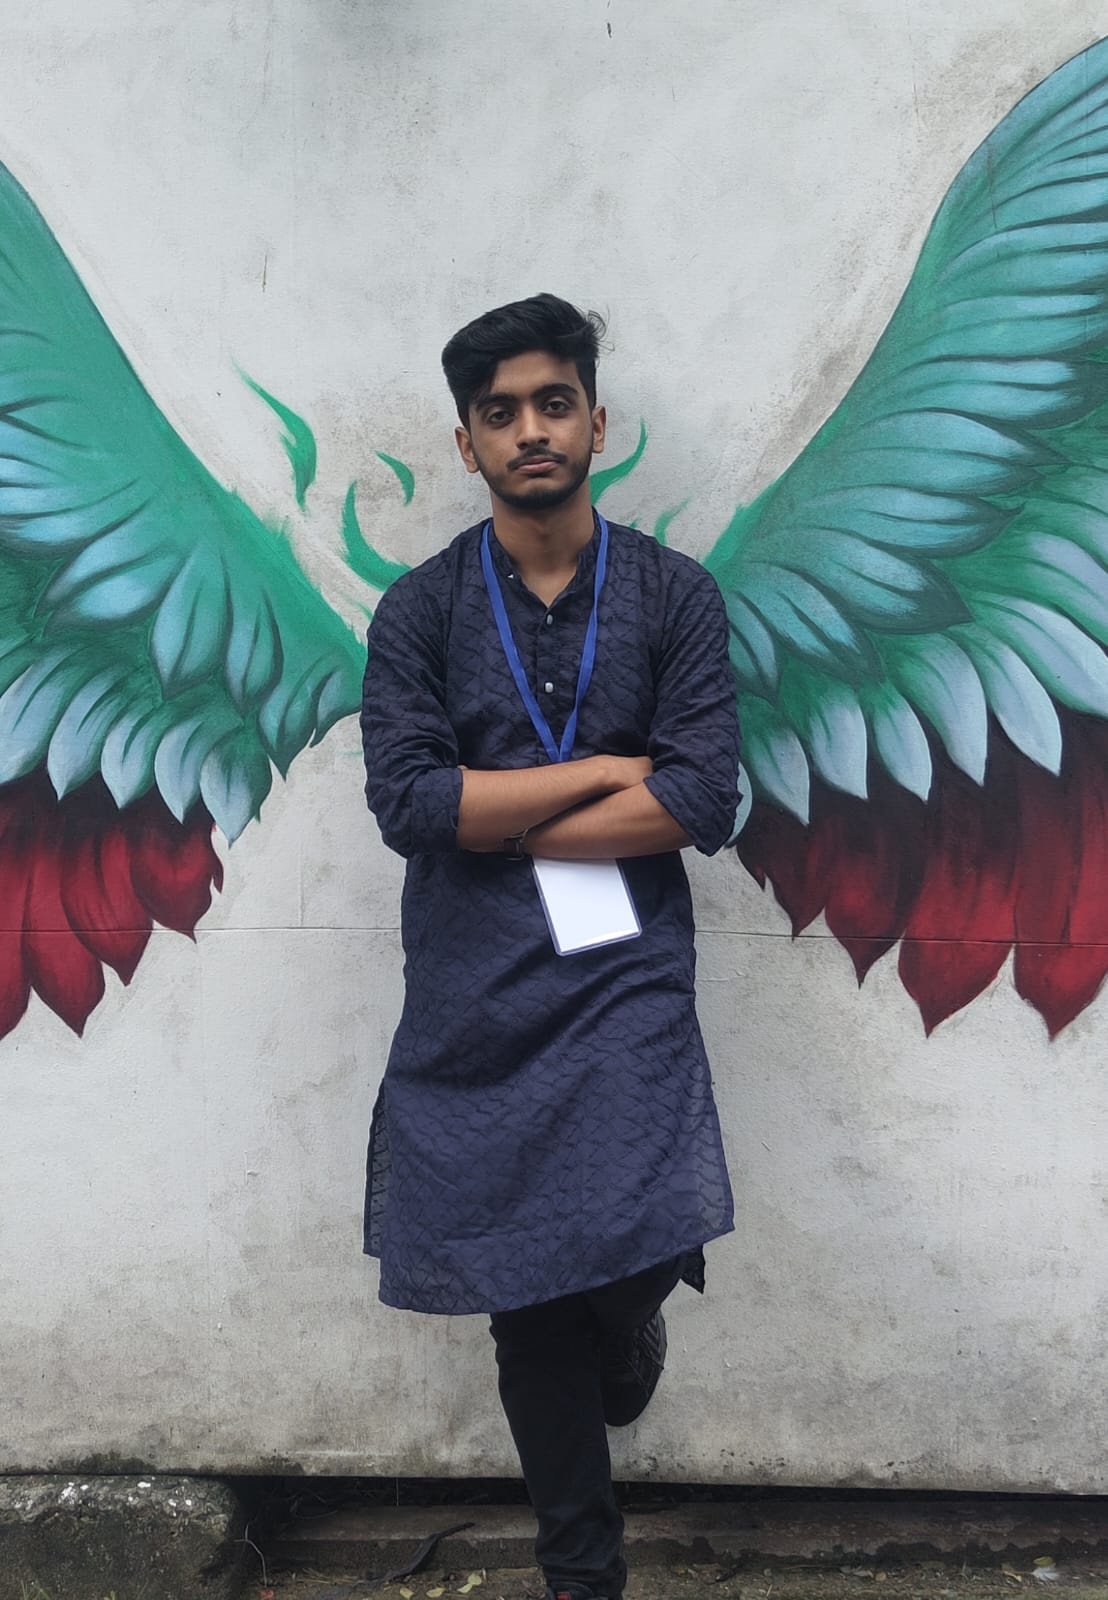
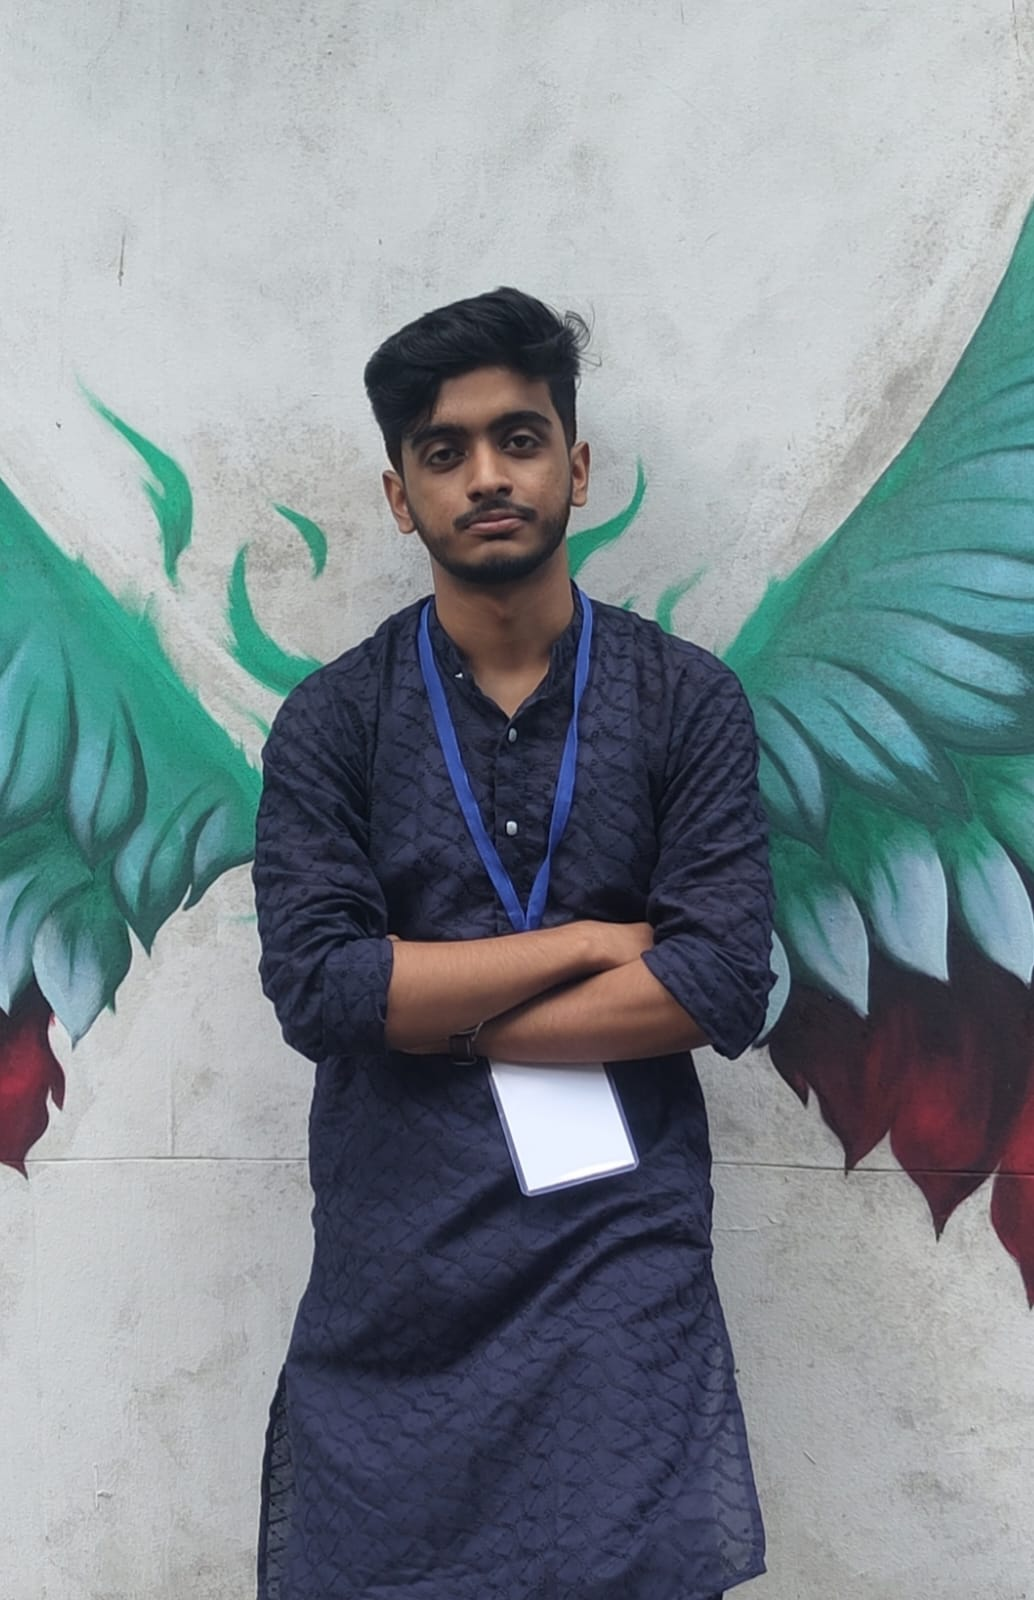
change partners section

diff --git a/src/app/page.tsx b/src/app/page.tsx
@@ -97,22 +97,37 @@ export default function Home() {
   ];
 
   // Partners data (replace with actual partner information)
-  // const goldSponsors = [
-  //   {
-  //     name: "test",
-  //     logo: "test",
-  //     website: "test"
-  //   }
-  // ];
+  const goldSponsors = [
+    {
+      name: "CloudyML",
+      logo: "/partners/cloudyml.png",
+      website: "https://www.cloudyml.com"
+    }
+  ];
 
-  // const technicalSponsors = [
-  //   {
-  //     name: "test",
-  //     subtitle: "test",
-  //     logo: "test",
-  //     website: "test"
-  //   }
-  // ];
+  const silverSponsors = [
+    {
+      name: "Keploy",
+      logo: "/partners/keploy.jpg",
+      website: "https://keploy.io"
+    }
+  ];
+
+  const miniEventPartner = [
+    {
+      name: "YouAreAssum",
+      logo: "/partners/youareassum.jpg",
+      website: "https://www.instagram.com/you_are_awesome_store"
+    }
+  ];
+
+  const foodPartner = [
+    {
+      name: "thebelgianwaffle",
+      logo: "/partners/belgian.jpg",
+      website: "https://thebelgianwaffle.co"
+    }
+  ];
 
   const communityPartners = [
     {
@@ -152,6 +167,11 @@ export default function Home() {
       name: "GDG IEM, Kolkata",
       logo: "/partners/iemGdg.jpg",
       website: "https://www.instagram.com/gdg_iem?utm_source=ig_web_button_share_sheet&igsh=ZDNlZDc0MzIxNw=="
+    },
+    {
+      name: "Not Zero",
+      logo: "/partners/notZero.png",
+      website: ""
     },
   ];
   return (
@@ -299,6 +319,7 @@ export default function Home() {
       </section>
 
       {/* Partners Section */}
+      {/* Partners Section */}
       <section id="partners" className="pt-20 pb-16 bg-gradient-to-b">
         <div className="container mx-auto px-4">
           <div className="flex flex-col justify-center items-center text-center mb-12">
@@ -310,21 +331,184 @@ export default function Home() {
             </p>
           </div>
 
-          {/* Community Partners */}
-          {communityPartners && communityPartners.length > 0 && (
-            <div className="mb-20 ">
-              <h3 className="text-2xl font-bold mb-6 text-green-400 tracking-wider text-center">
-                Community Partners
+          {/* Gold and Silver Partners in same line */}
+          {((goldSponsors && goldSponsors.length > 0) || (silverSponsors && silverSponsors.length > 0)) && (
+            <div className="mb-10">
+              <div className="flex flex-col md:flex-row justify-center items-center gap-2 md:gap-4">
+                {/* Gold Partners */}
+                {goldSponsors && goldSponsors.length > 0 && (
+                  <div>
+                    <h3 className="text-2xl font-bold mb-4 text-yellow-400 tracking-wider text-center">
+                      Gold Partner
+                    </h3>
+                    <div className="flex flex-wrap justify-center items-center gap-4">
+                      {goldSponsors.map((partner, index) => (
+                        <motion.div
+                          key={index}
+                          initial={{ opacity: 0, y: 20 }}
+                          animate={{ opacity: 1, y: 0 }}
+                          transition={{ delay: index * 0.1 }}
+                          className={`bg-white/5 backdrop-blur-sm rounded-xl p-4 border border-gray-700 hover:border-green-400 transition-all duration-300 transform hover:scale-105 flex items-center justify-center max-w-sm ${partner.website && partner.website.trim().length > 0 ? 'cursor-pointer' : ''
+                            }`}
+                          onClick={() => {
+                            if (partner.website && partner.website.trim().length > 0) {
+                              window.open(partner.website, '_blank');
+                            }
+                          }}
+                        >
+                          <div className="w-full h-16 bg-black/60 rounded-lg flex items-center justify-center overflow-hidden">
+                            <Image
+                              src={partner.logo}
+                              alt={partner.name}
+                              className="h-full w-full object-contain"
+                              width={300}
+                              height={64}
+                            />
+                          </div>
+                        </motion.div>
+                      ))}
+                    </div>
+                  </div>
+                )}
+
+                {/* Silver Partners */}
+                {silverSponsors && silverSponsors.length > 0 && (
+                  <div>
+                    <h3 className="text-2xl font-bold mb-4 text-gray-400 tracking-wider text-center">
+                      Silver Partner
+                    </h3>
+                    <div className="flex flex-wrap justify-center items-center gap-4">
+                      {silverSponsors.map((partner, index) => (
+                        <motion.div
+                          key={index}
+                          initial={{ opacity: 0, y: 20 }}
+                          animate={{ opacity: 1, y: 0 }}
+                          transition={{ delay: index * 0.1 }}
+                          className={`bg-white/5 backdrop-blur-sm rounded-xl p-4 border border-gray-700 hover:border-green-400 transition-all duration-300 transform hover:scale-105 flex items-center justify-center max-w-sm ${partner.website && partner.website.trim().length > 0 ? 'cursor-pointer' : ''
+                            }`}
+                          onClick={() => {
+                            if (partner.website && partner.website.trim().length > 0) {
+                              window.open(partner.website, '_blank');
+                            }
+                          }}
+                        >
+                          <div className="w-full h-16 bg-black/60 rounded-lg flex items-center justify-center overflow-hidden">
+                            <Image
+                              src={partner.logo}
+                              alt={partner.name}
+                              className="h-full w-full object-contain"
+                              width={300}
+                              height={64}
+                            />
+                          </div>
+                        </motion.div>
+                      ))}
+                    </div>
+                  </div>
+                )}
+              </div>
+            </div>
+          )}
+
+          {/* Mini Event Partner and Food Partner in same line */}
+          {((miniEventPartner && miniEventPartner.length > 0) || (foodPartner && foodPartner.length > 0)) && (
+            <div className="mb-10">
+              <div className="flex flex-col md:flex-row justify-center items-center gap-2 md:gap-4">
+                {/* Mini Event Partner */}
+                {miniEventPartner && miniEventPartner.length > 0 && (
+                  <div>
+                    <h3 className="text-2xl font-bold mb-4 text-purple-400 tracking-wider text-center">
+                      Mini Event Partner
+                    </h3>
+                    <div className="flex flex-wrap justify-center items-center gap-4">
+                      {miniEventPartner.map((partner, index) => (
+                        <motion.div
+                          key={index}
+                          initial={{ opacity: 0, y: 20 }}
+                          animate={{ opacity: 1, y: 0 }}
+                          transition={{ delay: index * 0.1 }}
+                          className={`bg-white/5 backdrop-blur-sm rounded-xl p-4 border border-gray-700 hover:border-green-400 transition-all duration-300 transform hover:scale-105 flex items-center justify-center max-w-sm ${partner.website && partner.website.trim().length > 0 ? 'cursor-pointer' : ''
+                            }`}
+                          onClick={() => {
+                            if (partner.website && partner.website.trim().length > 0) {
+                              window.open(partner.website, '_blank');
+                            }
+                          }}
+                        >
+                          <div className="w-full h-16 bg-black/60 rounded-lg flex items-center justify-center overflow-hidden">
+                            <Image
+                              src={partner.logo}
+                              alt={partner.name}
+                              className="h-full w-full object-contain"
+                              width={300}
+                              height={64}
+                            />
+                          </div>
+                        </motion.div>
+                      ))}
+                    </div>
+                  </div>
+                )}
+
+                {/* Food Partner */}
+                {foodPartner && foodPartner.length > 0 && (
+                  <div>
+                    <h3 className="text-2xl font-bold mb-4 text-orange-400 tracking-wider text-center">
+                      Food Partner
+                    </h3>
+                    <div className="flex flex-wrap justify-center items-center gap-4">
+                      {foodPartner.map((partner, index) => (
+                        <motion.div
+                          key={index}
+                          initial={{ opacity: 0, y: 20 }}
+                          animate={{ opacity: 1, y: 0 }}
+                          transition={{ delay: index * 0.1 }}
+                          className={`bg-white/5 backdrop-blur-sm rounded-xl p-4 border border-gray-700 hover:border-green-400 transition-all duration-300 transform hover:scale-105 flex items-center justify-center max-w-sm ${partner.website && partner.website.trim().length > 0 ? 'cursor-pointer' : ''
+                            }`}
+                          onClick={() => {
+                            if (partner.website && partner.website.trim().length > 0) {
+                              window.open(partner.website, '_blank');
+                            }
+                          }}
+                        >
+                          <div className="w-full h-16 bg-black/60 rounded-lg flex items-center justify-center overflow-hidden">
+                            <Image
+                              src={partner.logo}
+                              alt={partner.name}
+                              className="h-full w-full object-contain"
+                              width={300}
+                              height={64}
+                            />
+                          </div>
+                        </motion.div>
+                      ))}
+                    </div>
+                  </div>
+                )}
+              </div>
+            </div>
+          )}
+
+          {/* Technical Partners */}
+          {technicalPartners && technicalPartners.length > 0 && (
+            <div className="mb-10">
+              <h3 className="text-2xl font-bold mb-4 text-blue-400 tracking-wider text-center">
+                Technical Partners
               </h3>
               <div className="flex flex-wrap justify-center items-center gap-4">
-                {communityPartners.map((partner, index) => (
+                {technicalPartners.map((partner, index) => (
                   <motion.div
                     key={index}
                     initial={{ opacity: 0, y: 20 }}
                     animate={{ opacity: 1, y: 0 }}
                     transition={{ delay: index * 0.1 }}
-                    className="bg-white/5 backdrop-blur-sm rounded-xl p-4 border border-gray-700 hover:border-green-400 cursor-pointer transition-all duration-300 transform hover:scale-105 flex items-center justify-center max-w-sm"
-                    onClick={() => window.open(partner.website, '_blank')}
+                    className={`bg-white/5 backdrop-blur-sm rounded-xl p-4 border border-gray-700 hover:border-green-400 transition-all duration-300 transform hover:scale-105 flex items-center justify-center max-w-sm ${partner.website && partner.website.trim().length > 0 ? 'cursor-pointer' : ''
+                      }`}
+                    onClick={() => {
+                      if (partner.website && partner.website.trim().length > 0) {
+                        window.open(partner.website, '_blank');
+                      }
+                    }}
                   >
                     <div className="w-full h-16 bg-black/60 rounded-lg flex items-center justify-center overflow-hidden">
                       <Image
@@ -341,20 +525,26 @@ export default function Home() {
             </div>
           )}
 
-          {technicalPartners && technicalPartners.length > 0 && (
+          {/* Community Partners */}
+          {communityPartners && communityPartners.length > 0 && (
             <div className="mb-20">
-              <h3 className="text-2xl font-bold mb-6 text-green-400 tracking-wider text-center">
-                Technical Partners
+              <h3 className="text-2xl font-bold mb-4 text-pink-400 tracking-wider text-center">
+                Community Partners
               </h3>
               <div className="flex flex-wrap justify-center items-center gap-4">
-                {technicalPartners.map((partner, index) => (
+                {communityPartners.map((partner, index) => (
                   <motion.div
                     key={index}
                     initial={{ opacity: 0, y: 20 }}
                     animate={{ opacity: 1, y: 0 }}
                     transition={{ delay: index * 0.1 }}
-                    className="bg-white/5 backdrop-blur-sm rounded-xl p-4 border border-gray-700 hover:border-green-400 cursor-pointer transition-all duration-300 transform hover:scale-105 flex items-center justify-center max-w-sm"
-                    onClick={() => window.open(partner.website, '_blank')}
+                    className={`bg-white/5 backdrop-blur-sm rounded-xl p-4 border border-gray-700 hover:border-green-400 transition-all duration-300 transform hover:scale-105 flex items-center justify-center max-w-sm ${partner.website && partner.website.trim().length > 0 ? 'cursor-pointer' : ''
+                      }`}
+                    onClick={() => {
+                      if (partner.website && partner.website.trim().length > 0) {
+                        window.open(partner.website, '_blank');
+                      }
+                    }}
                   >
                     <div className="w-full h-16 bg-black/60 rounded-lg flex items-center justify-center overflow-hidden">
                       <Image
